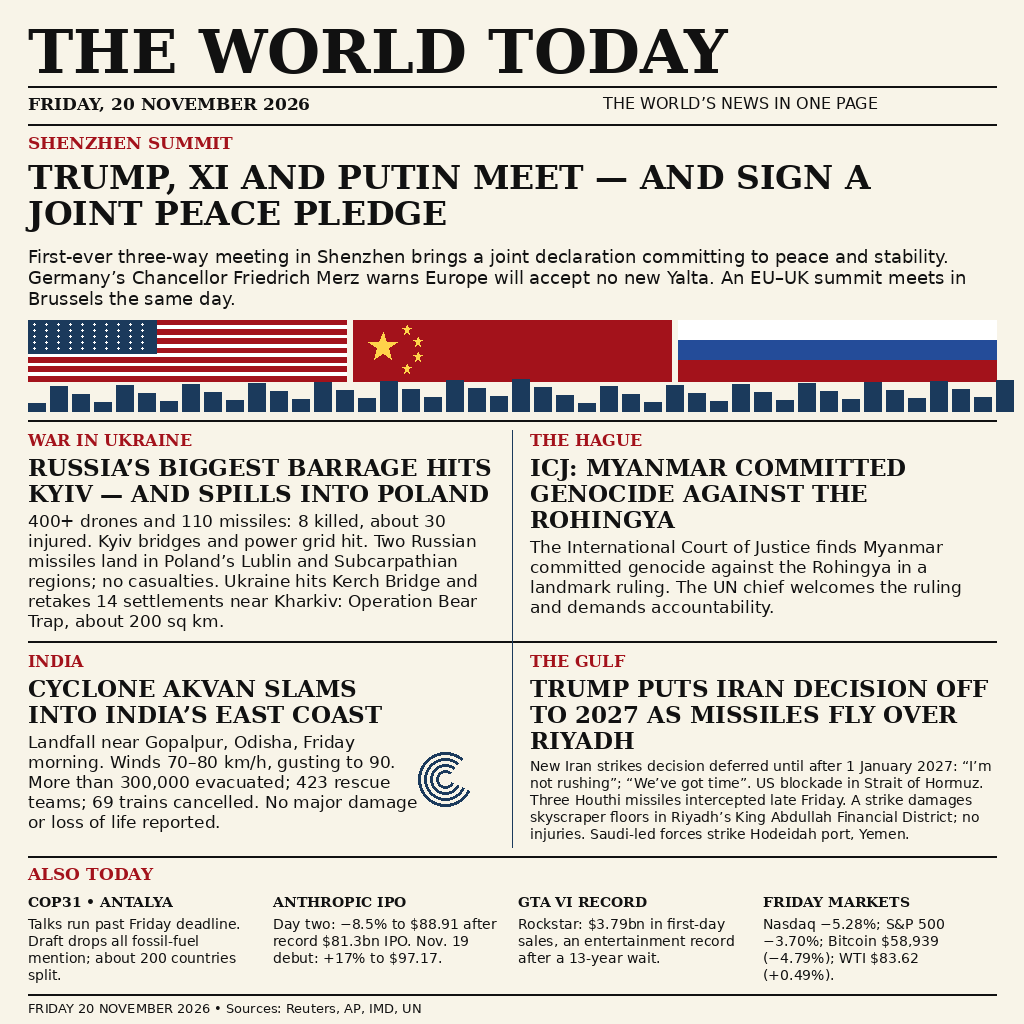
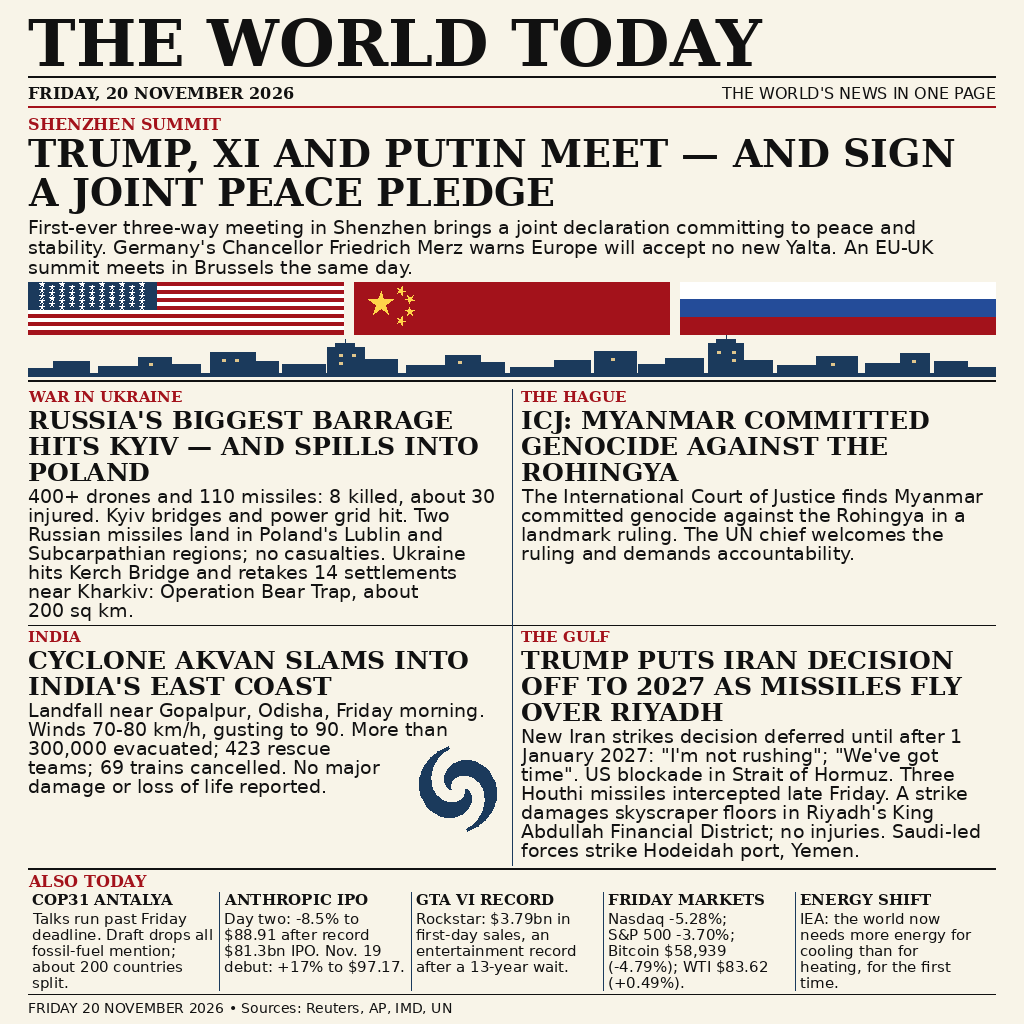
news-image-20261120 v2: larger type, real flag stars, skyline, cyclone emblem, 5th ALSO TODAY item (IEA cooling)

diff --git a/render.py b/render.py
@@ -1,77 +1,247 @@
+from functools import lru_cache
+from math import cos, pi, sin
 from pathlib import Path
+
 from PIL import Image, ImageDraw, ImageFont
-import math
-ROOT=Path(__file__).resolve().parent
-im=Image.new('RGB',(1024,1024),'#f8f4e8'); d=ImageDraw.Draw(im)
-INK='#111111'; RED='#a3121b'; NAVY='#1b3a5c'
-def font(n,b=False): return ImageFont.truetype('/usr/share/fonts/truetype/dejavu/'+('DejaVuSerif-Bold.ttf' if b else 'DejaVuSans.ttf'),n)
-def text(s,box,size=18,b=False,color=INK):
- x,y,w,h=box
- for n in range(size,8,-1):
-  f=font(n,b); lines=[]
-  for p in s.split('\n'):
-   line=''
-   for word in p.split():
-    trial=(line+' '+word).strip()
-    if d.textlength(trial,font=f)>w and line: lines.append(line); line=word
-    else: line=trial
-   lines.append(line)
-  step=n+3
-  if len(lines)*step<=h: break
- assert len(lines)*step<=h,(s,n)
- for line in lines:
-  d.text((x,y),line,font=f,fill=color); y+=step
- return y
-def rule(y): d.line((28,y,996,y),fill=INK,width=2)
-text('THE WORLD TODAY',(28,15,968,65),61,True)
-rule(86)
-text('FRIDAY, 20 NOVEMBER 2026',(28,94,470,23),17,True)
-text("THE WORLD’S NEWS IN ONE PAGE",(603,94,393,23),16)
-rule(124)
-text('SHENZHEN SUMMIT',(28,133,968,22),17,True,RED)
-text('TRUMP, XI AND PUTIN MEET — AND SIGN A JOINT PEACE PLEDGE',(28,158,968,87),33,True)
-text('First-ever three-way meeting in Shenzhen brings a joint declaration committing to peace and stability. Germany’s Chancellor Friedrich Merz warns Europe will accept no new Yalta. An EU–UK summit meets in Brussels the same day.',(28,246,968,67),18)
-# Shape-only flag and skyline illustration.
-for i in range(3):
- x=28+i*325; y=320; w=318; h=61
- if i==0:
-  d.rectangle((x,y,x+w,y+h),fill='white')
-  for j in range(13):
-   if j%2==0:d.rectangle((x,y+j*h/13,x+w,y+(j+1)*h/13),fill=RED)
-  d.rectangle((x,y,x+128,y+33),fill=NAVY)
-  for row in range(5):
-   for col in range(10): d.ellipse((x+5+col*12,y+3+row*6,x+7+col*12,y+5+row*6),fill='white')
- elif i==1:
-  d.rectangle((x,y,x+w,y+h),fill=RED)
-  def star(cx,cy,r):
-   pts=[(cx+math.cos(-math.pi/2+k*math.pi/5)*(r if k%2==0 else r*.4),cy+math.sin(-math.pi/2+k*math.pi/5)*(r if k%2==0 else r*.4)) for k in range(10)]
-   d.polygon(pts,fill='#ffd34a')
-  star(x+30,y+27,15)
-  for xx,yy in [(54,10),(65,22),(65,37),(54,49)]:star(x+xx,y+yy,5)
- else:
-  for j,c in enumerate(['white','#244c99',RED]):d.rectangle((x,y+j*h/3,x+w,y+(j+1)*h/3),fill=c)
-for j in range(45):
- x=28+j*22; ht=8+(j*17%25); d.rectangle((x,411-ht,x+17,411),fill=NAVY)
-rule(420)
-def article(x,y,kicker,headline,body,h=184,w=466):
- text(kicker,(x,y,w,22),16,True,RED)
- end=text(headline,(x,y+24,w,78),23,True)
- text(body,(x,end+5,w,y+h-end-5),17)
-article(28,430,'WAR IN UKRAINE','RUSSIA’S BIGGEST BARRAGE HITS KYIV — AND SPILLS INTO POLAND','400+ drones and 110 missiles: 8 killed, about 30 injured. Kyiv bridges and power grid hit. Two Russian missiles land in Poland’s Lublin and Subcarpathian regions; no casualties. Ukraine hits Kerch Bridge and retakes 14 settlements near Kharkiv: Operation Bear Trap, about 200 sq km.',202)
-article(530,430,'THE HAGUE','ICJ: MYANMAR COMMITTED GENOCIDE AGAINST THE ROHINGYA','The International Court of Justice finds Myanmar committed genocide against the Rohingya in a landmark ruling. The UN chief welcomes the ruling and demands accountability.',202)
-rule(641)
-article(28,651,'INDIA','CYCLONE AKVAN SLAMS INTO INDIA’S EAST COAST','Landfall near Gopalpur, Odisha, Friday morning. Winds 70–80 km/h, gusting to 90. More than 300,000 evacuated; 423 rescue teams; 69 trains cancelled. No major damage or loss of life reported.',195,w=397)
-for r in range(9,33,6): d.arc((445-r,779-r,445+r,779+r),25,310,fill=NAVY,width=3)
-article(530,651,'THE GULF','TRUMP PUTS IRAN DECISION OFF TO 2027 AS MISSILES FLY OVER RIYADH','New Iran strikes decision deferred until after 1 January 2027: “I’m not rushing”; “We’ve got time”. US blockade in Strait of Hormuz. Three Houthi missiles intercepted late Friday. A strike damages skyscraper floors in Riyadh’s King Abdullah Financial District; no injuries. Saudi-led forces strike Hodeidah port, Yemen.',195)
-d.line((512,430,512,847),fill=NAVY,width=1)
-rule(856)
-text('ALSO TODAY',(28,864,968,23),17,True,RED)
-items=[('COP31 • ANTALYA','Talks run past Friday deadline. Draft drops all fossil-fuel mention; about 200 countries split.'),('ANTHROPIC IPO','Day two: −8.5% to $88.91 after record $81.3bn IPO. Nov. 19 debut: +17% to $97.17.'),('GTA VI RECORD','Rockstar: $3.79bn in first-day sales, an entertainment record after a 13-year wait.'),('FRIDAY MARKETS','Nasdaq −5.28%; S&P 500 −3.70%; Bitcoin $58,939 (−4.79%); WTI $83.62 (+0.49%).')]
-for i,(h,b) in enumerate(items):
- x=28+i*245
- text(h,(x,893,232,20),14,True)
- text(b,(x,916,232,72),14)
-rule(994)
-text('FRIDAY 20 NOVEMBER 2026 • Sources: Reuters, AP, IMD, UN',(28,1000,968,20),13)
-(ROOT/'assets').mkdir(exist_ok=True)
-im.save(ROOT/'assets/entry.png',optimize=True)
+
+SIZE = 1024
+PAPER, INK, RED, NAVY = "#f8f4e8", "#111111", "#a3121b", "#1b3a5c"
+FONT_DIR = Path("/usr/share/fonts/truetype/dejavu")
+OUTPUT = Path(__file__).resolve().parent / "assets" / "entry.png"
+LEFT, RIGHT = 28, 996
+image = Image.new("RGB", (SIZE, SIZE), PAPER)
+draw = ImageDraw.Draw(image)
+occupied = []
+
+
+@lru_cache
+def font(size, serif):
+    name = "DejaVuSerif-Bold.ttf" if serif else "DejaVuSans.ttf"
+    return ImageFont.truetype(FONT_DIR / name, size)
+
+
+def reserve(box, label):
+    x, y, right, bottom = box
+    assert 0 <= x < right <= SIZE and 0 <= y < bottom <= SIZE, (label, box)
+    for (a, b, c, d), other in occupied:
+        assert not (x < c and a < right and y < d and b < bottom), (label, other)
+    occupied.append((box, label))
+
+
+def wrap(words, face, width):
+    """Yield lines using the available width at each line index."""
+    line = ""
+    row = 0
+    for word in words.split(" "):
+        trial = f"{line} {word}" if line else word
+        left, _, right, _ = face.getbbox(trial)
+        if line and right - left > width(row):
+            yield line
+            row += 1
+            line = word
+        else:
+            line = trial
+    if line:
+        yield line
+
+
+def text(copy, box, size, *, serif=False, color=INK, leading=None,
+         align="left", inset=None):
+    x, y, right, bottom = box
+    face = font(size, serif)
+    step = leading or size + 2
+    # Keep the baseline consistent, even for lines without descenders.
+    top = face.getbbox("H")[1] - 2
+
+    def edge(row):
+        line_y = y + row * step
+        if inset and line_y < inset[1] and line_y + step > inset[0]:
+            return inset[2]
+        return right
+
+    end = y
+    for row, line in enumerate(wrap(copy, face, lambda i: edge(i) - x)):
+        left, upper, far, lower = face.getbbox(line)
+        line_y = y + row * step - top
+        line_x = x - left if align == "left" else edge(row) - far
+        bounds = (line_x + left, line_y + upper, line_x + far, line_y + lower)
+        assert x <= bounds[0] and y <= bounds[1], (copy, bounds, box)
+        assert bounds[2] <= edge(row) and bounds[3] <= bottom, (copy, bounds, box)
+        reserve(bounds, line)
+        draw.text((line_x, line_y), line, font=face, fill=color)
+        end = bounds[3]
+    return end
+
+
+def rule(y, color=INK, width=1):
+    draw.rectangle((LEFT, y, RIGHT - 1, y + width - 1), fill=color)
+
+
+def star(cx, cy, radius, color, angle=-pi / 2):
+    points = []
+    for i in range(10):
+        r = radius if i % 2 == 0 else radius * 0.382
+        theta = angle + i * pi / 5
+        points.append((cx + r * cos(theta), cy + r * sin(theta)))
+    draw.polygon(points, fill=color)
+
+
+def bands(x, y, width, height, colors):
+    for i, color in enumerate(colors):
+        top = y + i * height // len(colors)
+        bottom = y + (i + 1) * height // len(colors)
+        draw.rectangle((x, top, x + width - 1, bottom - 1), fill=color)
+
+
+def flag_band(y):
+    width, height = 316, 53
+    us, china, russia = LEFT, LEFT + 326, LEFT + 652
+    reserve((LEFT, y, RIGHT, y + height), "flags")
+    white = "#ffffff"
+    bands(us, y, width, height, [RED, white] * 6 + [RED])
+    canton = height * 7 // 13
+    draw.rectangle((us, y, us + 128, y + canton - 1), fill=NAVY)
+    for row in range(9):
+        for col in range(6 - row % 2):
+            star(us + 14 + 20 * col + 10 * (row % 2),
+                 y + (row + 1) * canton / 10, 2.6, white)
+
+    bands(china, y, width, height, [RED])
+    gold = "#ffd34a"
+    star(china + 27, y + 22, 13, gold)
+    for dx, dy, angle in [(47, 9, 2.55), (56, 17, 2.97),
+                          (56, 30, 3.41), (47, 39, 3.85)]:
+        star(china + dx, y + dy, 4.5, gold, angle)
+    bands(russia, y, width, height, [white, "#244c99", RED])
+
+
+def skyline(base):
+    reserve((LEFT, base - 41, RIGHT, base + 1), "skyline")
+    # A single street line, with low blocks around two taller towers.
+    buildings = [
+        (0, 31, 8), (25, 37, 15), (70, 44, 10), (110, 34, 19),
+        (144, 29, 12), (182, 46, 24), (219, 32, 15), (254, 44, 12),
+        (299, 38, 29), (337, 33, 17), (378, 45, 11), (417, 36, 21),
+        (451, 26, 14), (482, 48, 9), (526, 37, 16), (566, 43, 25),
+        (610, 27, 12), (637, 39, 18), (680, 36, 33), (716, 29, 16),
+        (749, 43, 11), (788, 42, 20), (837, 37, 13), (872, 30, 23),
+        (906, 34, 15), (938, 30, 9),
+    ]
+    for offset, width, height in buildings:
+        x = LEFT + offset
+        draw.rectangle((x, base - height, x + width - 1, base), fill=NAVY)
+    for offset, height in [(299, 29), (680, 33)]:
+        x = LEFT + offset
+        draw.rectangle((x + 8, base - height - 4, x + 27, base - height), fill=NAVY)
+        draw.line((x + 18, base - height - 8, x + 18, base - height), fill=NAVY)
+    draw.rectangle((LEFT, base - 3, RIGHT - 1, base), fill=NAVY)
+    for dx, dy in [(121, 13), (194, 17), (207, 17), (311, 22), (324, 22),
+                   (311, 14), (430, 15), (583, 18), (689, 25), (704, 25),
+                   (704, 17), (803, 13), (884, 16)]:
+        draw.rectangle((LEFT + dx, base - dy, LEFT + dx + 3, base - dy + 2),
+                       fill="#dfc58c")
+
+
+def cyclone(x, y):
+    reserve((x, y, x + 90, y + 90), "cyclone")
+    # Two tapered spiral arms curl around a clear eye.
+    for phase in (0, pi):
+        edges = ([], [])
+        for i in range(81):
+            t = i / 80
+            angle = phase + 4.5 * t
+            radius = 8 + 34 * t
+            thickness = 1 + 7 * sin(pi * t)
+            for edge, r in zip(edges, (radius - thickness, radius + thickness)):
+                edge.append((x + 45 + r * cos(angle), y + 45 + r * sin(angle)))
+        draw.polygon(edges[0] + edges[1][::-1], fill=NAVY)
+
+
+def article(x, y, right, bottom, kicker, headline, body, *, inset=None):
+    text(kicker, (x, y, right, y + 16), 15, serif=True, color=RED)
+    end = text(headline, (x, y + 20, right, bottom), 25, serif=True, leading=26)
+    text(body, (x, end + 6, right, bottom), 19, leading=19, inset=inset)
+
+
+def render():
+    text("THE WORLD TODAY", (LEFT, 17, RIGHT, 74), 64, serif=True)
+    rule(76, width=2)
+    text("FRIDAY, 20 NOVEMBER 2026", (LEFT, 85, 470, 103), 16, serif=True)
+    text("THE WORLD'S NEWS IN ONE PAGE", (550, 85, RIGHT, 103), 16, align="right")
+    rule(106, RED, 2)
+
+    text("SHENZHEN SUMMIT", (LEFT, 116, RIGHT, 131), 16, serif=True, color=RED)
+    text("TRUMP, XI AND PUTIN MEET — AND SIGN A JOINT PEACE PLEDGE",
+         (LEFT, 137, RIGHT, 215), 38, serif=True, leading=39)
+    text("First-ever three-way meeting in Shenzhen brings a joint declaration "
+         "committing to peace and stability. Germany's Chancellor Friedrich Merz "
+         "warns Europe will accept no new Yalta. An EU-UK summit meets in Brussels "
+         "the same day.", (LEFT, 218, RIGHT, 279), 19, leading=20)
+    flag_band(282)
+    skyline(376)
+    rule(380, width=2)
+
+    article(LEFT, 389, 503, 622, "WAR IN UKRAINE",
+            "RUSSIA'S BIGGEST BARRAGE HITS KYIV — AND SPILLS INTO POLAND",
+            "400+ drones and 110 missiles: 8 killed, about 30 injured. Kyiv bridges "
+            "and power grid hit. Two Russian missiles land in Poland's Lublin and "
+            "Subcarpathian regions; no casualties. Ukraine hits Kerch Bridge and retakes "
+            "14 settlements near Kharkiv: Operation Bear Trap, about 200\u00a0sq\u00a0km.")
+    article(521, 389, RIGHT, 622, "THE HAGUE",
+            "ICJ: MYANMAR COMMITTED GENOCIDE AGAINST THE ROHINGYA",
+            "The International Court of Justice finds Myanmar committed genocide "
+            "against the Rohingya in a landmark ruling. The UN chief welcomes the "
+            "ruling and demands accountability.")
+    rule(625)
+    cyclone(413, 744)
+    article(LEFT, 629, 503, 865, "INDIA",
+            "CYCLONE AKVAN SLAMS INTO INDIA'S EAST COAST",
+            "Landfall near Gopalpur, Odisha, Friday morning. Winds 70-80 km/h, "
+            "gusting to 90. More than 300,000 evacuated; 423 rescue teams; 69 trains "
+            "cancelled. No major damage or loss of life reported.",
+            inset=(744, 834, 400))
+    article(521, 629, RIGHT, 865, "THE GULF",
+            "TRUMP PUTS IRAN DECISION OFF TO 2027 AS MISSILES FLY OVER RIYADH",
+            'New Iran strikes decision deferred until after 1 January 2027: "I\'m not '
+            'rushing"; "We\'ve got time". US blockade in Strait of Hormuz. Three Houthi '
+            "missiles intercepted late Friday. A strike damages skyscraper floors in "
+            "Riyadh's King Abdullah Financial District; no injuries. Saudi-led forces "
+            "strike Hodeidah port, Yemen.")
+    draw.line((512, 389, 512, 865), fill=NAVY)
+    rule(868, width=2)
+
+    text("ALSO TODAY", (LEFT, 873, RIGHT, 890), 16, serif=True, color=RED)
+    items = [
+        ("COP31 ANTALYA", "Talks run past Friday deadline. Draft drops all fossil-fuel "
+         "mention; about 200 countries split."),
+        ("ANTHROPIC IPO", "Day two: -8.5% to $88.91 after record $81.3bn IPO. "
+         "Nov. 19 debut: +17% to $97.17."),
+        ("GTA VI RECORD", "Rockstar: $3.79bn in first-day sales, an entertainment "
+         "record after a 13-year wait."),
+        ("FRIDAY MARKETS", "Nasdaq -5.28%; S&P\u00a0500 -3.70%; Bitcoin $58,939 (-4.79%); "
+         "WTI $83.62 (+0.49%)."),
+        ("ENERGY SHIFT", "IEA: the world now needs more energy for cooling than for "
+         "heating, for the first time."),
+    ]
+    column = 192
+    for i, (headline, body) in enumerate(items):
+        x = LEFT + 4 + i * column
+        if i:
+            draw.line((x - 5, 892, x - 5, 990), fill=NAVY)
+        text(headline, (x, 892, x + 182, 909), 15, serif=True)
+        text(body, (x, 911, x + 182, 993), 15, leading=16)
+
+    rule(994)
+    text("FRIDAY 20 NOVEMBER 2026 • Sources: Reuters, AP, IMD, UN",
+         (LEFT, 1001, RIGHT, 1017), 14)
+    image.save(OUTPUT, optimize=True)
+    with Image.open(OUTPUT) as png:
+        assert png.format == "PNG" and png.size == (SIZE, SIZE)
+        png.verify()
+    size = OUTPUT.stat().st_size
+    assert size < 1024**2, size
+    print(f"{OUTPUT.name}: {SIZE}x{SIZE}, {size:,} bytes")
+
+
+if __name__ == "__main__":
+    render()
